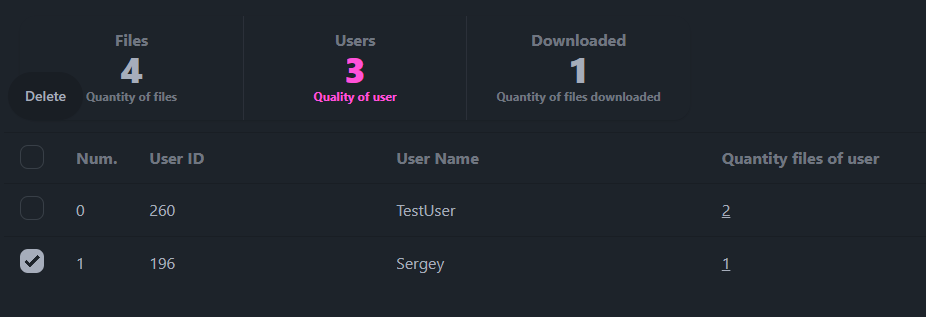
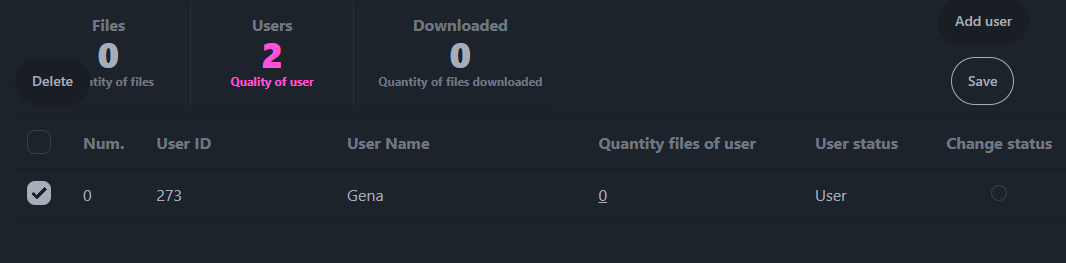
[profileadmin]: README apdate

diff --git a/src/components/MainPage/index.tsx b/src/components/MainPage/index.tsx
@@ -64,7 +64,7 @@ export function MainPageFC(props: { maintitle: string }): JSX.Element {
     <section className="main-page p-5">
 
       <div className="overflow-x-auto">
-        {generalValue && (<table className="table admin- REVIEW">
+        {generalValue && (<table className="table admin-reviews">
           {/* head */}
           <thead>
             <tr>
@@ -101,7 +101,7 @@ export function MainPageFC(props: { maintitle: string }): JSX.Element {
               <th>User Name</th>
               <th>Quantity files of user</th>
               <th>User status</th>
-              <th>Chabge status</th>
+              <th>Change status</th>
             </tr>
           </thead>
           <tbody >

diff --git a/README.md b/README.md
@@ -234,29 +234,34 @@ CRUD - выполнен частично.
 ### Интерфейс администратора c файлами
 В сводной таблице кликаем по количеству файлов пользователя - получаем файлы пользователя .
  - [базовый интерфейс для личного профиля](#интерфейс-пользователя-c-файлами);
+ - [базовый интерфейс для файлов](#интерфейс-пользователя-c-файлами) из профиля пользователя;
  - получение сводных данных по сервису в виде таблиц:
  - [x] количество файлов на сервере (сводная строка);
  - [x] количество пользователей на сервере (сводная строка);
  - [x] количество файлов скаченных. Данное количество не указывает - сколько раз скачивался файл (сводная строка);
  - [x] '`User ID`'  (сводная таблица);
  - [x] '`User Name`' - ссылка для переходя в профиль пользователя (сводная таблица);
- - [x] '`Quantity files of user`' - ссылка для переходя к файлам пользователя (сводная таблица).
- - [базовый интерфейс для файлов](#интерфейс-пользователя-c-файлами) из профиля пользователя;
- - удалить одного или более пользователей (сводная таблица).
+ - [x] '`Quantity files of user`' - ссылка для переходя к файлам пользователя (сводная таблица);
+ - [x] '`User status'` - Статус пользователя (администратор или просто пользователь - сводная таблица);
+ - [x] '`Change status`' - Выбираем пользователей для изменения статуса (администратор или просто пользователь - сводная таблица);
+ - `'Delete'` -удалить одного или более пользователей;
+ - '`Save`' для сохранения выбора;
+ - '`Add user`' При клике проходит релокация на страницу с формой для регистрации нового пользолвателя.
 
 ### Note
 - Получить профиль и файлы пользователя только с главной страницы.
 - фильтр, для свойдной страницы не обсуждался.
+- 
  
 ### Удалитьпользователя
 
 ![user removing](./img/remove_user.png)
 
-За счёт checkbox выбираем одно, более одного или всех разом пользователей.\
+За счёт checkbox выбираем одного, более одного или всех разом пользователей.\
 Появляется кнопка '`Delete`' и отправляем на удаление.
 
 #### Note
-'`Delete`' Слежить за количеством выбранного. \
+'`Delete`' Следить за количеством выбранного. \
 По умолчани '`Delete`' не видим на странице (css). \
 Выбираем одного или всех сразу и '`Delete`' появляется. \
 Исключаем всех сразу или последнего из своего выбора и '`Delete`' изчезает. 
